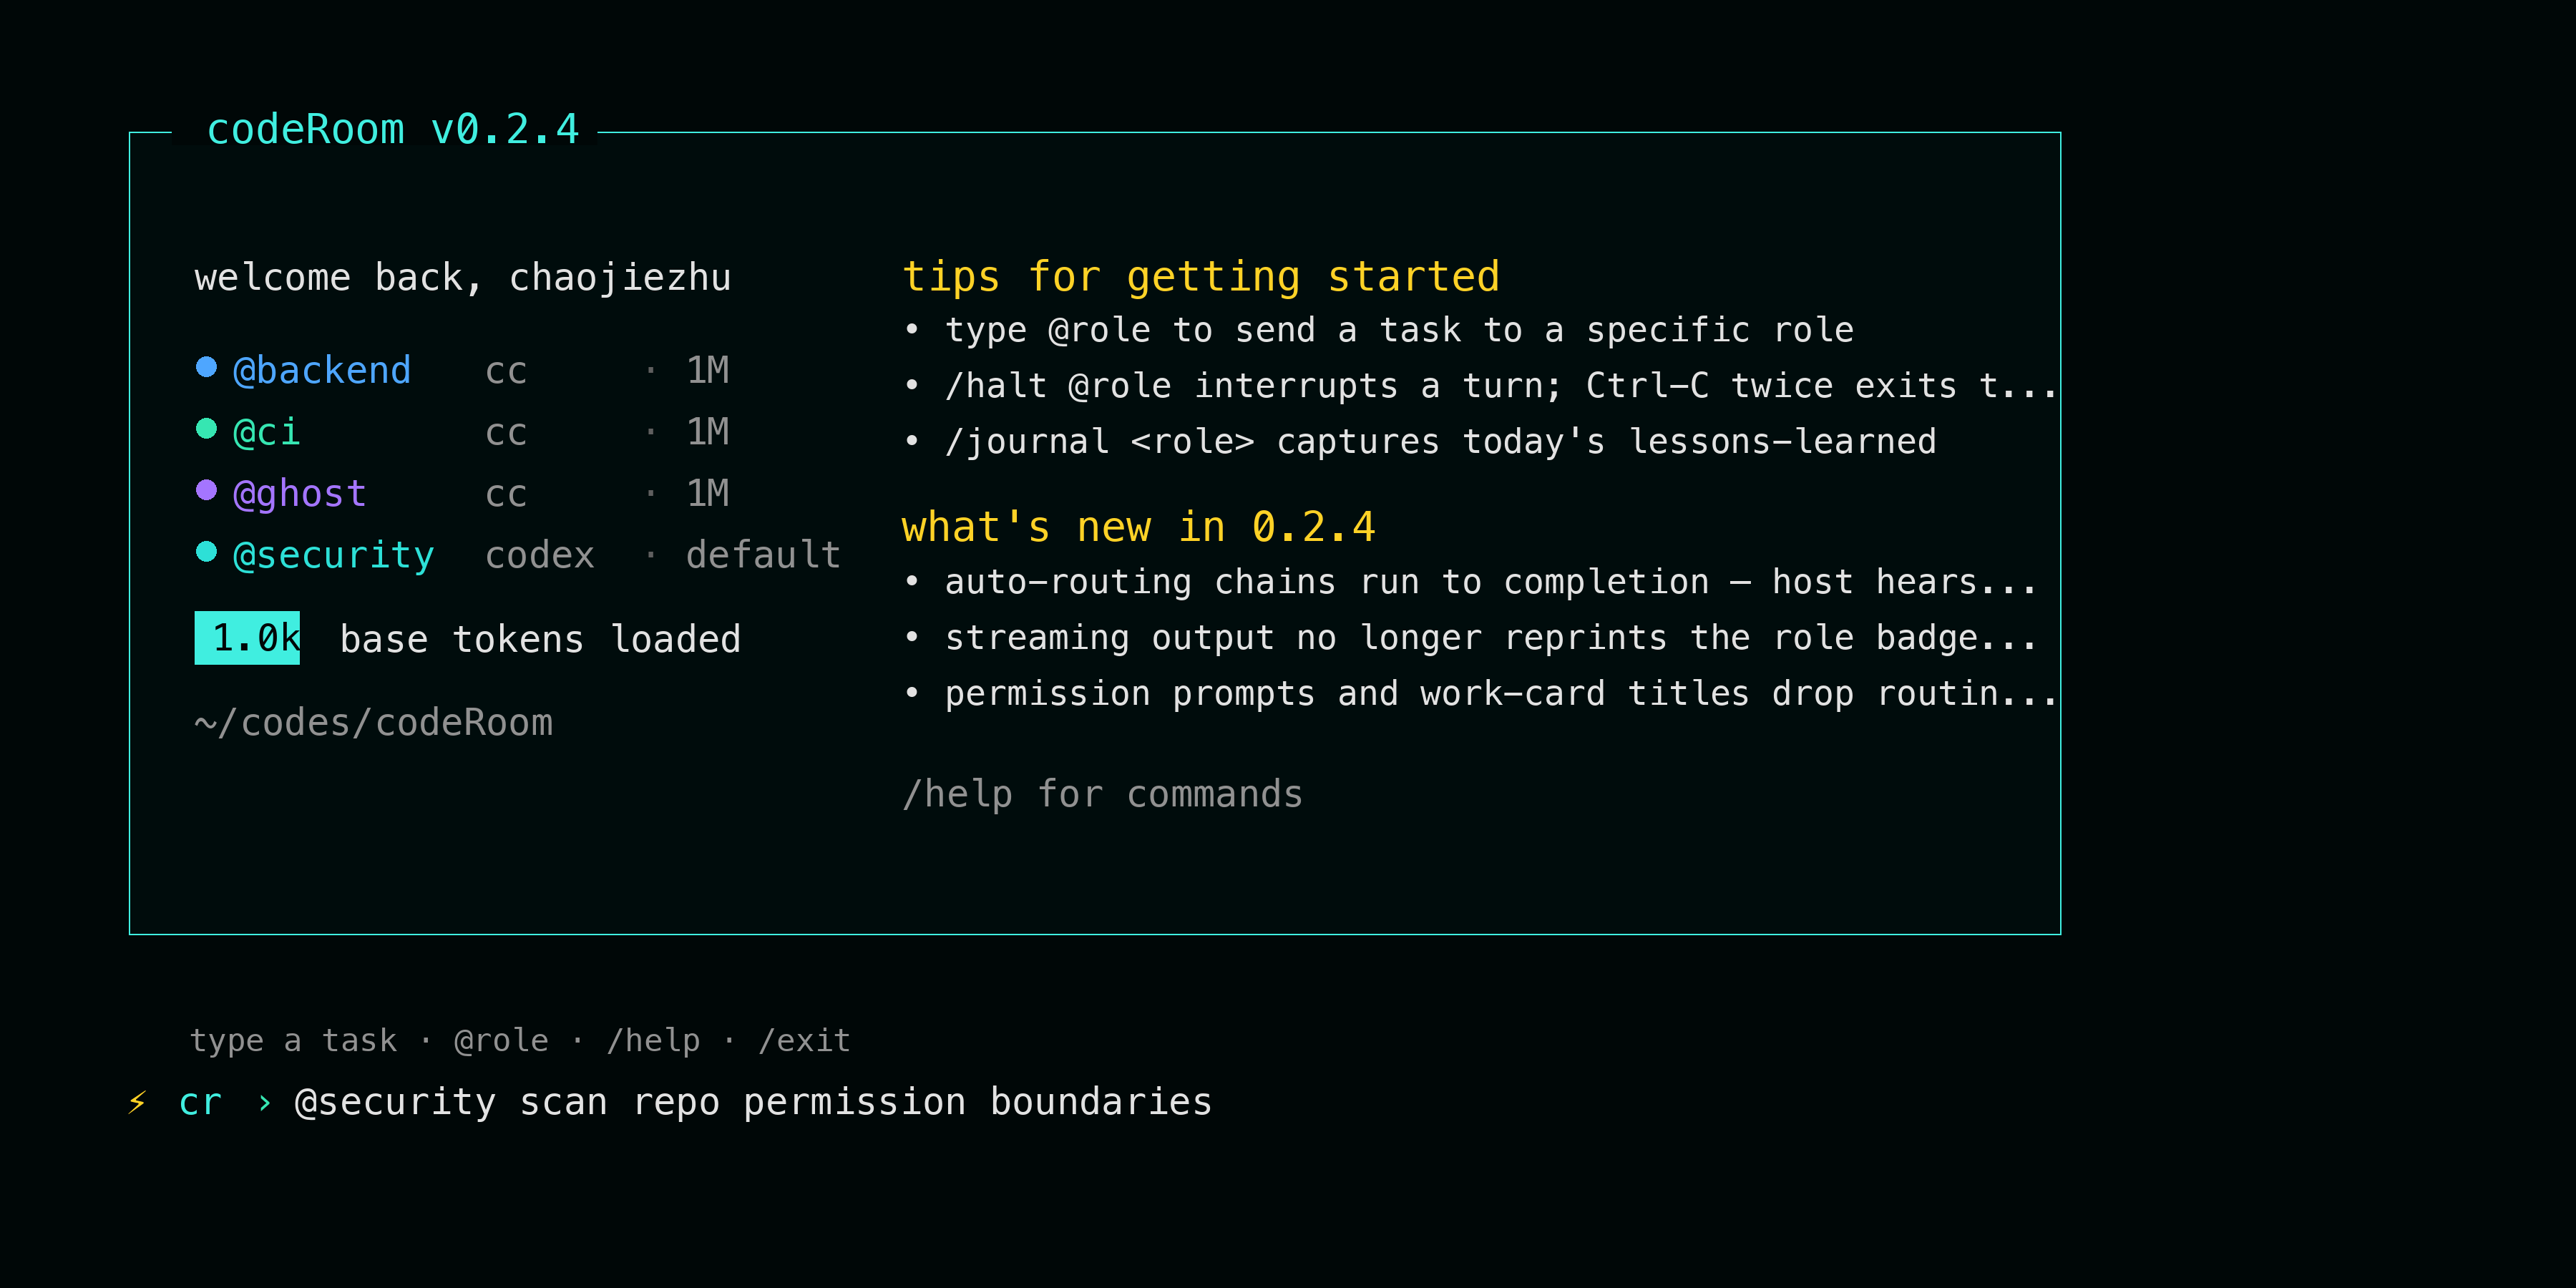
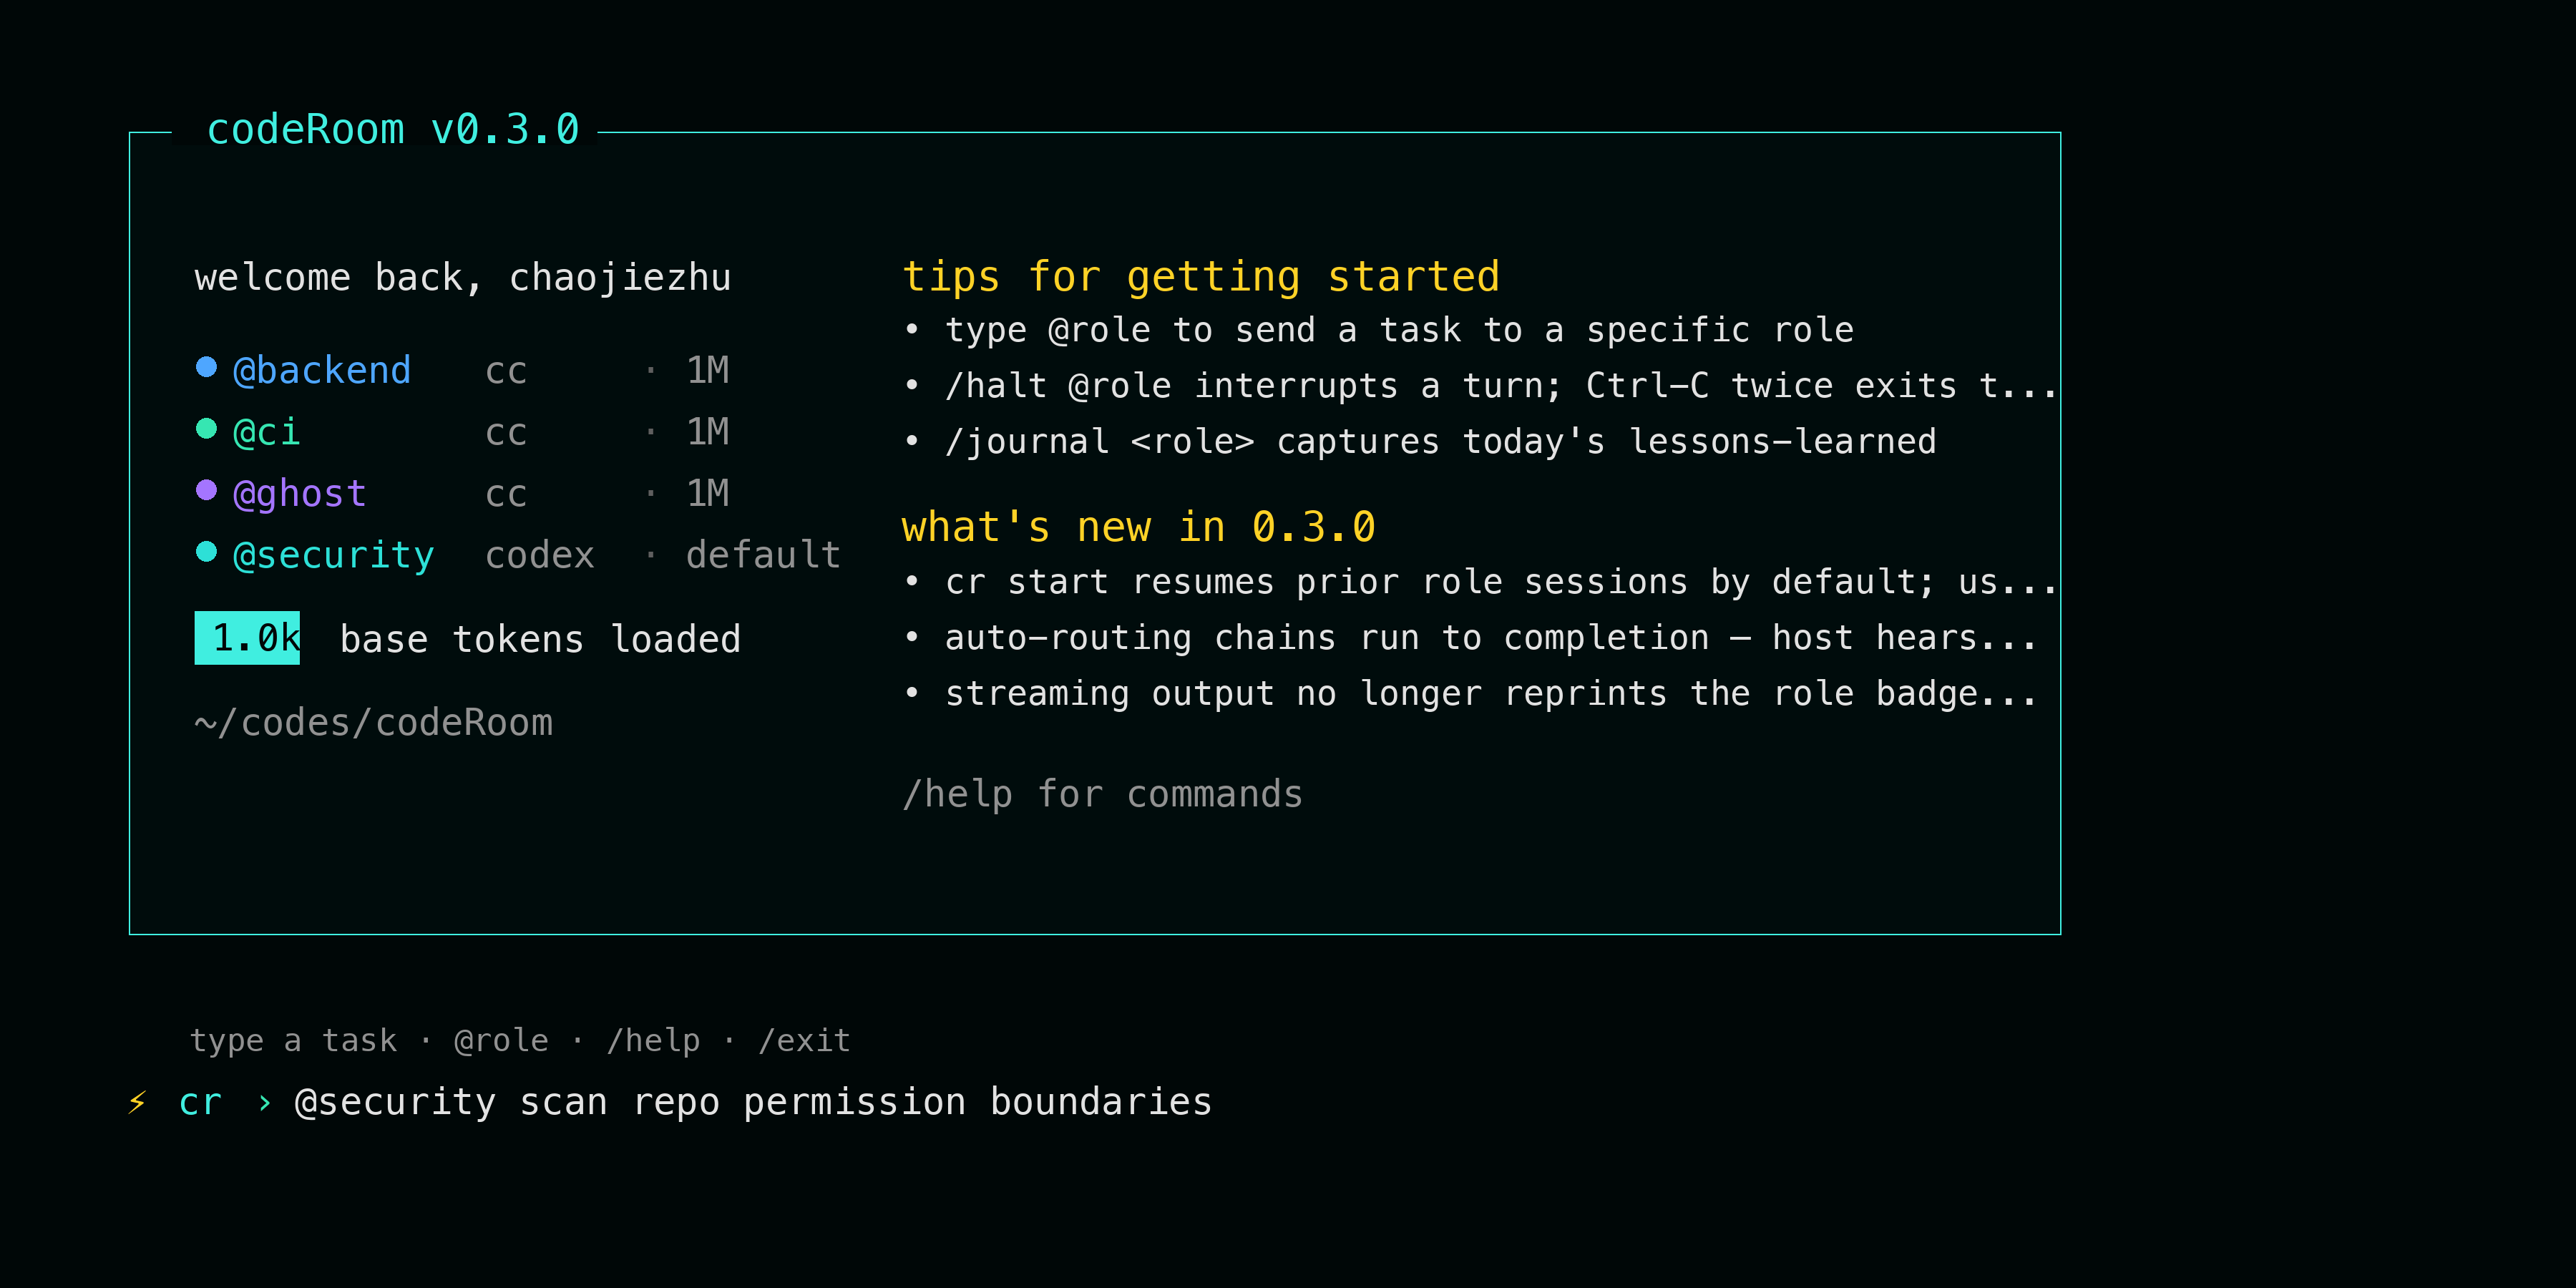
chore(release): v0.3.0
Minor bump — amendment A-006 flips a previously-implicit constitution
guarantee (each `cr start` was a fresh session per role) to
default-resume, so this is a 0.3 not a 0.2.5.

Shipping in this batch:
  PR-6 #118  feat(repl): per-role session resume infrastructure
  PR-7 #119  feat(cli): cr start --fresh + /refresh session reset
  PR-8 #122  feat(adapters): user-visible codex/gemini resume gap signal

- Cargo.toml / Cargo.lock / npm/package.json / src/lib.rs → 0.3.0
- README status line + binary install snippet → v0.3.0
- Roadmap table adds the v0.3.0 (shipped) row and notes codex/gemini
  resume parity as v0.3.x
- data/splash_content.toml gains a 0.3.0 what's new entry
- CHANGELOG [Unreleased] → [0.3.0] - 2026-05-11 with the three
  PRs and the codex/gemini deferral note
- Splash snapshot test (`src/repl/tests.rs`) updated
- Boot dashboard PNG re-rendered (3600×1800 retina, v0.3.0 label)

Changed region(s): [[0.3733, 0.4356, 0.7778, 0.56]]

diff --git a/src/repl/tests.rs b/src/repl/tests.rs
@@ -533,17 +533,17 @@ fn snapshot_boot_dashboard_at_80() {
     .trim_start_matches('\n')
     .to_owned();
     insta::assert_snapshot!(rendered, @r"
-┌─ codeRoom v0.2.4 ────────────────────────────────────────────────────────────┐
+┌─ codeRoom v0.3.0 ────────────────────────────────────────────────────────────┐
 │                                                                              │
 │ welcome back, Ada              tips for getting started                      │
 │                                • type @role to send a task to a specific ro… │
 │ ● @backend   cc     · 1M       • /halt @role interrupts a turn; Ctrl-C twic… │
 │ ● @host      cc     · 1M       • /journal <role> captures today's lessons-l… │
 │ ● @security  codex  · default                                                │
-│                                what's new in 0.2.4                           │
-│  0  base tokens loaded         • auto-routing chains run to completion — ho… │
-│ /repo/codeRoom                 • streaming output no longer reprints the ro… │
-│                                • permission prompts and work-card titles dr… │
+│                                what's new in 0.3.0                           │
+│  0  base tokens loaded         • cr start resumes prior role sessions by de… │
+│ /repo/codeRoom                 • auto-routing chains run to completion — ho… │
+│                                • streaming output no longer reprints the ro… │
 │                                                                              │
 │                                /help for commands                            │
 │                                                                              │

diff --git a/src/lib.rs b/src/lib.rs
@@ -4,7 +4,7 @@
 //! primary consumer. See `docs/architecture.md` for the v0.1 constitution and
 //! `docs/v0.2-trust-and-interrupt.md` for the v0.2 amendment.
 
-#![doc(html_root_url = "https://docs.rs/coderoom/0.2.4")]
+#![doc(html_root_url = "https://docs.rs/coderoom/0.3.0")]
 #![warn(missing_debug_implementations)]
 #![warn(rust_2018_idioms)]
 

diff --git a/CHANGELOG.md b/CHANGELOG.md
@@ -7,6 +7,47 @@ and this project adheres to [Semantic Versioning](https://semver.org/spec/v2.0.0
 
 ## [Unreleased]
 
+## [0.3.0] - 2026-05-11
+
+### Added
+
+- **Per-role session resume by default (amendment A-006).** `cr start`
+  now resumes each role's prior engine session from
+  `.coderoom/sessions/ids/<role>.id` instead of spawning fresh.
+  Mirrors the behaviour of every modern AI CLI (`claude --resume` /
+  `--continue`, etc.). The REPL prints one hint line listing which
+  roles will resume; `cr start --fresh` clears the persisted ids
+  and starts every role clean. `/refresh @role` also clears that
+  role's session id alongside its priors reload — `/refresh`
+  semantically means "reload priors + start over" and now actually
+  does. (#118, #119)
+- **`cr start --fresh` flag.** Explicit escape hatch for "I want
+  to forget everything"; wipes `.coderoom/sessions/ids/` before
+  spawning roles. The init wizard's
+  `sessions/role-suggestions-dismissed` marker sits in a sibling
+  directory and survives `--fresh`, so users who already dismissed
+  the role-expansion picker aren't re-prompted. (#119)
+
+### Changed
+
+- **Default `cr start` behaviour: resume instead of fresh.** Per
+  amendment A-006. Previously a constitution-level implicit
+  guarantee that each start was fresh; now flipped. Migration:
+  none required — first run after upgrade has no
+  `.coderoom/sessions/` entries so the first session is fresh,
+  resume kicks in from the second session onward.
+
+### Notes
+
+- **Codex and gemini resume parity is deferred.** The cc adapter
+  consumes `resume_session_id` and passes `--resume <id>` to the
+  engine; codex's mcp-server mode has no resume flag (`codex resume`
+  is a separate interactive subcommand) and gemini's `--resume`
+  is index-based, not UUID-based. The REPL prints "resume not
+  wired for codex/gemini yet — @qa, @security will start fresh"
+  so users running mixed-engine projects aren't silently surprised.
+  Tracked at #120 (codex) and #121 (gemini). (#122)
+
 ## [0.2.4] - 2026-05-11
 
 ### Added

diff --git a/README.md b/README.md
@@ -12,7 +12,7 @@
 
 ![CodeRoom role work cards](docs/images/work-cards.png)
 
-> **Status: v0.2.4 — user-runnable, still pre-1.0.** Claude Code,
+> **Status: v0.3.0 — user-runnable, still pre-1.0.** Claude Code,
 > Codex, and Gemini adapters are wired up; bare `cr` opens CodeRoom
 > directly, guides setup when `.coderoom/` is missing, and shows the
 > effective role / engine / model configuration on entry. **v0.2**
@@ -70,8 +70,9 @@ reply.
 | v0.1.x | First-run UI polish, config layering, updater, release hardening |
 | **v0.2** (shipped) | Trust + interrupt: deleted wall-clock per-turn kill; `/halt` + Ctrl-C two-press; codex stdio idle watchdog; WorkCard polish (filled/open glyphs + per-tool accent colors); richer status line |
 | **v0.2.2** (shipped) | Chat-room UX polish: folded per-tool traces, `@`/`/` dropdown completion menu, cross-role quote/reply block, full-width handoff banner, compact one-line permission prompts |
+| **v0.3.0** (shipped) | Per-role session resume by default (`cr start --fresh` to opt out); unbounded auto-routing so chains run to completion (`@host → @security → @host` synthesis); streaming-aware markdown; cc adapter wires `--resume <id>`; codex/gemini resume parity tracked separately |
 | v0.2.x | Concurrent typing during a turn + multi-role parallel dispatch + multi-slot status region |
-| v0.3 | `cr review` (patch clustering), `cr verify` (journal fact-check) |
+| v0.3.x | Codex / gemini resume parity (#120, #121); `cr review` (patch clustering); `cr verify` (journal fact-check); per-role context compaction (#117) |
 | v0.x | Team mode (per-role human owners), auto-router (opt-in), replay viewer |
 
 See [docs/architecture.md](docs/architecture.md) for the v0.1 constitution,
@@ -114,7 +115,7 @@ Disable that with `CODEROOM_NO_UPDATE_CHECK=1` or
 <summary>Don't have npm? Direct binary install.</summary>
 
 ```bash
-TAG=v0.2.4
+TAG=v0.3.0
 ARCH=$(uname -m); case "$ARCH" in arm64|aarch64) ARCH=aarch64 ;; *) ARCH=x86_64 ;; esac
 OS=$(uname -s | tr '[:upper:]' '[:lower:]')
 curl -fsSL "https://github.com/spytensor/codeRoom/releases/download/${TAG}/cr-${TAG}-${OS}-${ARCH}.tar.gz" \